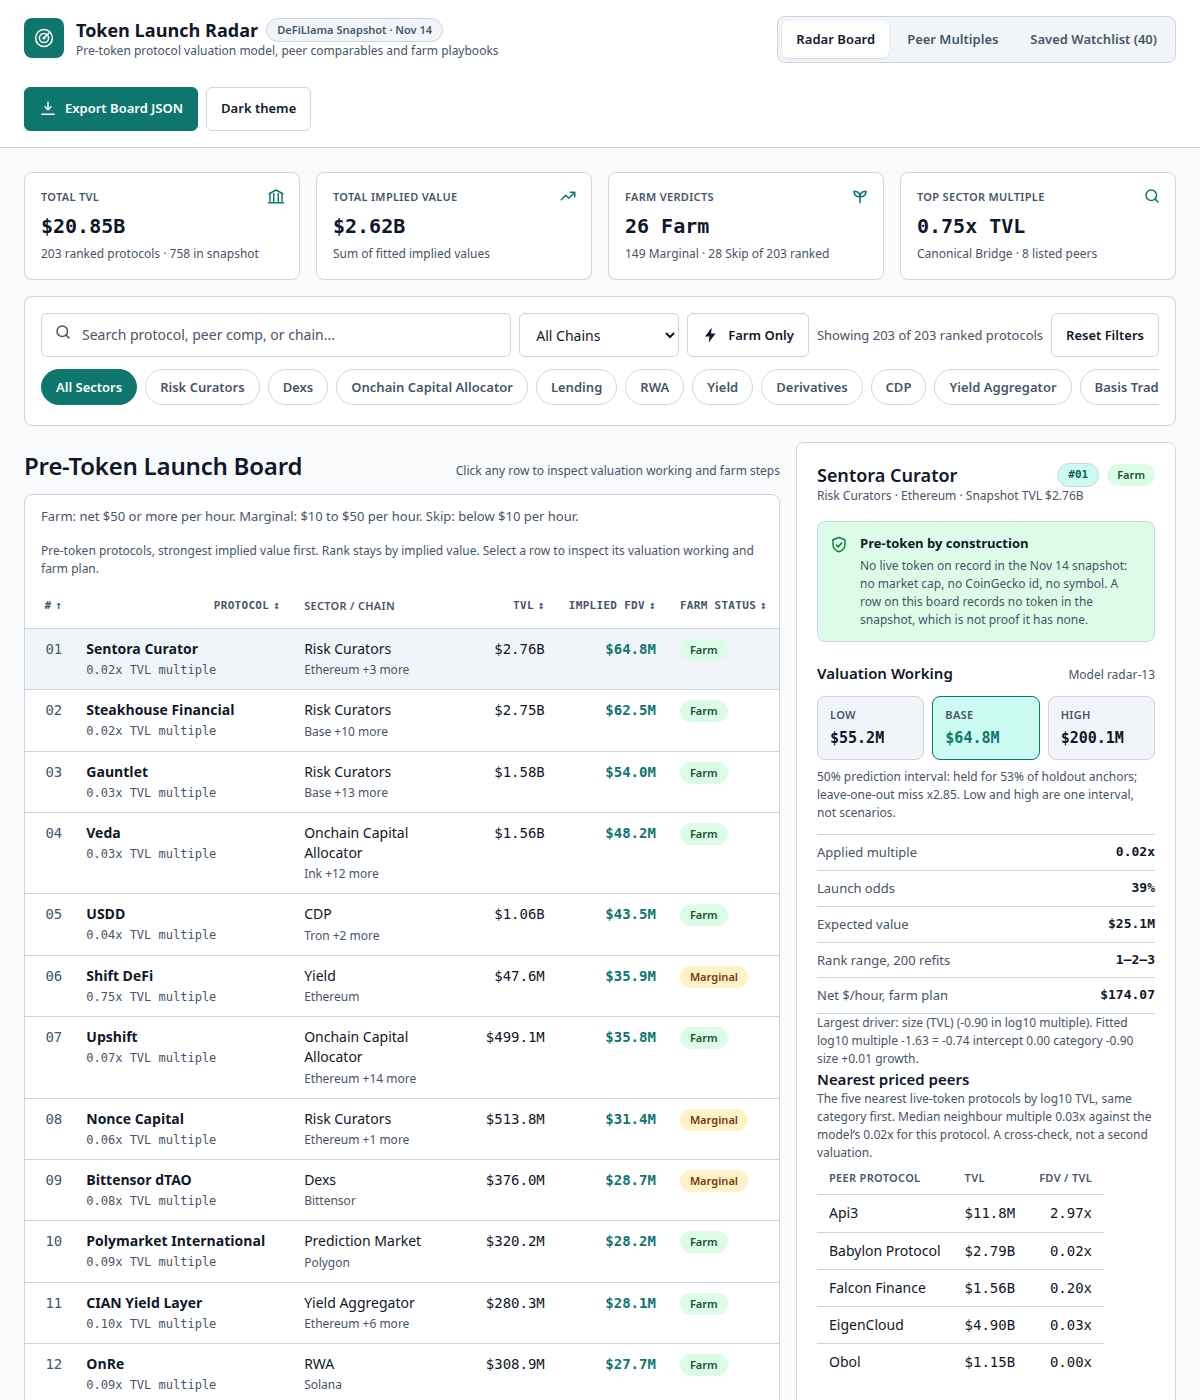
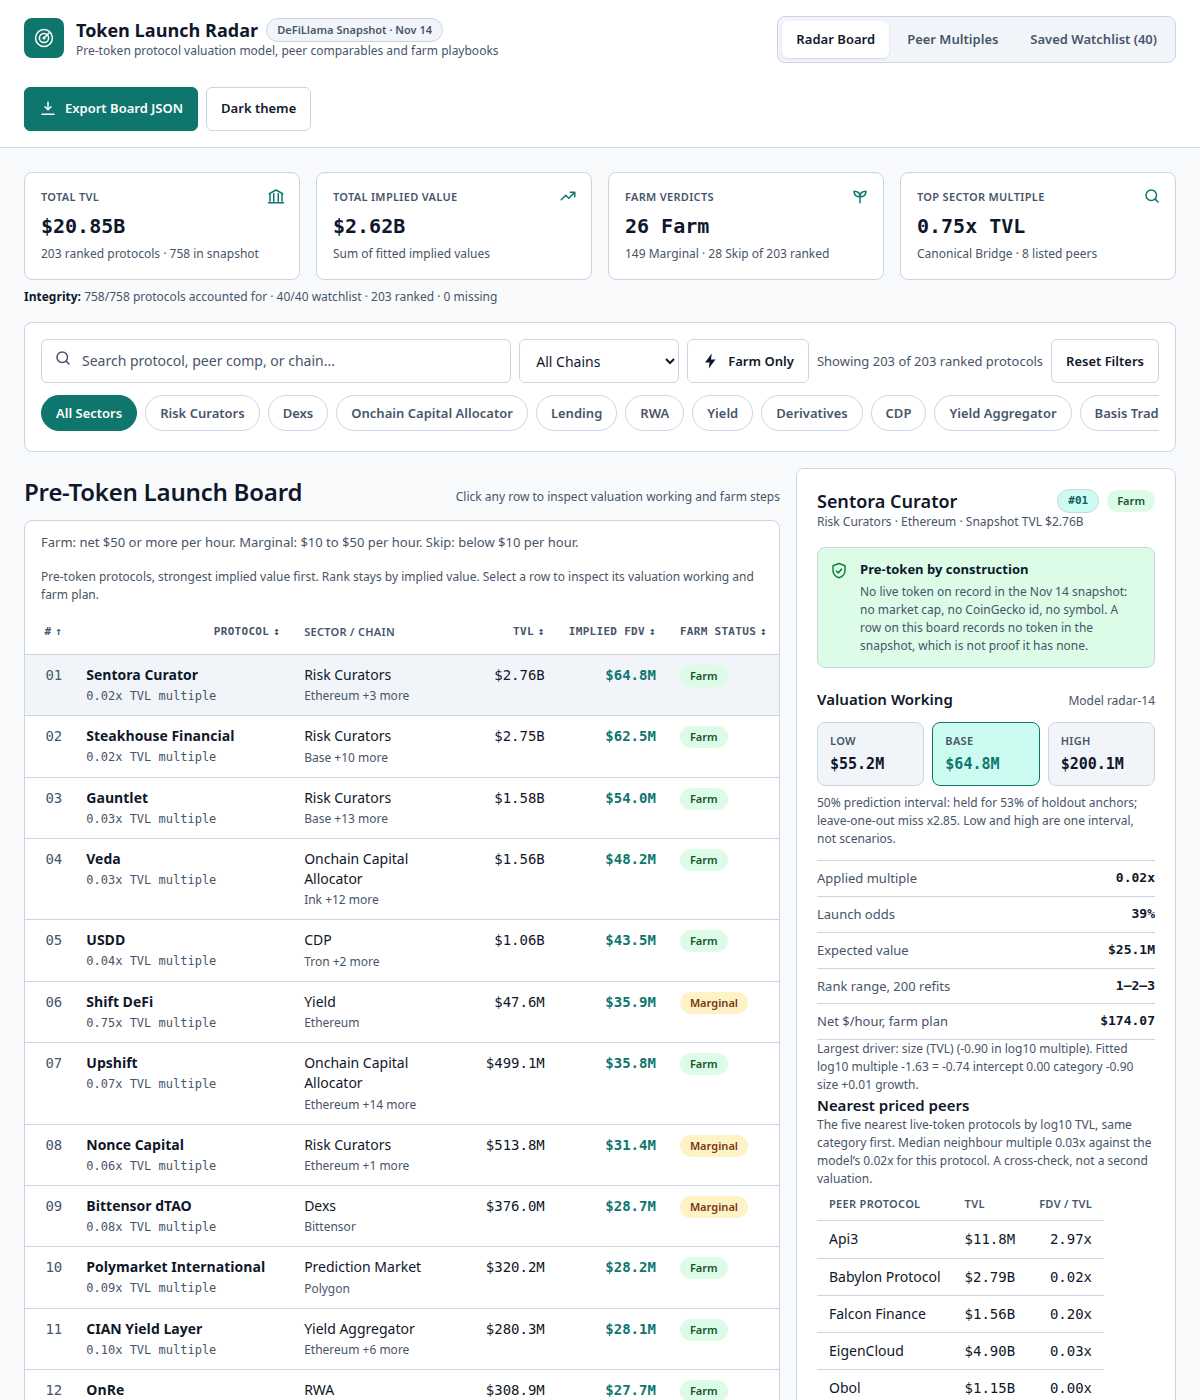
radar-14: maturity term tested and rejected; held-out-twice framing + integrity line (board unchanged)

Changed region(s): [[0.0, 0.1843, 0.9867, 1.0], [0.4008, 0.7986, 0.4625, 1.0], [0.4008, 0.645, 0.4625, 0.7679]]

diff --git a/dashboard/app.js b/dashboard/app.js
@@ -1,4 +1,4 @@
-// Token Radar dashboard (radar-13), from window.RADAR.
+// Token Radar dashboard (radar-14), from window.RADAR.
 // Light theme is the default; dark keeps the same layout. No webfonts:
 // system stacks only, so the board stays offline-capable.
 (function() {
@@ -292,6 +292,14 @@
 			kpi('trend', 'Total implied value', fmtUsd(k.total_implied_usd), 'Sum of fitted implied values'),
 			kpi('sprout', 'Farm verdicts', k.farmable_count + ' Farm', k.marginal_count + ' Marginal · ' + k.skip_count + ' Skip of ' + D.board_size + ' ranked'),
 			kpi('search', 'Top sector multiple', fmtX(topMed.med) + ' TVL', topMed.cat + ' · ' + topMed.n + ' listed peers')
+		);
+	}
+	function integrityLine() {
+		var k = D.kpis;
+		var missing = k.coverage_total - k.coverage_accounted;
+		return el('p', { class: 'integrity-line' },
+			el('b', { text: 'Integrity: ' }),
+			el('span', { text: k.coverage_accounted + '/' + k.coverage_total + ' protocols accounted for · ' + D.watchlist_size + '/' + D.watchlist_size + ' watchlist · ' + D.board_size + ' ranked · ' + missing + ' missing' })
 		);
 	}
 	function toolbar() {
@@ -686,6 +694,7 @@
 			shell.appendChild(watchView());
 		} else {
 			shell.appendChild(kpiStrip());
+			shell.appendChild(integrityLine());
 			shell.appendChild(toolbar());
 			var list = rows();
 			if (filtered()) shell.appendChild(cohort(list));

diff --git a/lib/model.ts b/lib/model.ts
@@ -36,7 +36,12 @@
 // holdout and walk-forward misses together (2.92x/2.57x/2.03x at 1.3).
 // Age is not in the multiple because adding it made the walk-forward
 // miss 12x: the age multiple fitted on older listings does not
-// transfer to newer ones. Age is used where the data supports it
+// transfer to newer ones. A maturity multiplier by age band (median
+// residual per band, shrunk toward 1.0) was tested the same way and
+// rejected too: it worsened the leave-one-out miss (2.85x to 3.17x)
+// and left walk-forward unchanged — the young bands hold only 3 and 7
+// anchors, so their residuals are a few high-multiple protocols, not
+// an age effect. Age is used where the data supports it
 // instead: the share of protocols this old that already have a token,
 // which is the launch odds, and the expected value is the implied
 // value times those odds (see launchShares and expectedValue below).
@@ -110,7 +115,7 @@ export const MODEL: FitConstants = {
   bootstrap_refits: 200,
 };
 
-export const MODEL_VERSION = 'radar-13';
+export const MODEL_VERSION = 'radar-14';
 
 export interface FarmStep {
   text: string;

diff --git a/dashboard/app.css b/dashboard/app.css
@@ -55,7 +55,9 @@ h3{font-size:15px;line-height:22px;font-weight:600;margin:0}
 [data-theme="dark"] .btn.toggle.on{background:#0e7490;border-color:#0e7490}
 .btn .ic{display:inline-flex}
 /* KPI strip */
-.kpis{display:grid;grid-template-columns:repeat(4,1fr);gap:16px;margin:24px 0 16px}
+.kpis{display:grid;grid-template-columns:repeat(4,1fr);gap:16px;margin:24px 0 8px}
+.integrity-line{font-size:12px;line-height:18px;color:var(--muted);margin:0 0 16px}
+.integrity-line b{color:var(--text)}
 .kpi{position:relative;background:var(--panel);border:1px solid var(--line);border-radius:8px;padding:16px}
 .kpi-ic{position:absolute;top:14px;right:14px;color:var(--accent)}
 .kpi-label{display:block;font-size:11px;line-height:16px;font-weight:600;letter-spacing:.3px;text-transform:uppercase;color:var(--muted);margin-bottom:8px;padding-right:28px}

diff --git a/dashboard/method.md b/dashboard/method.md
@@ -1,4 +1,4 @@
-# Token Radar, radar-13: method
+# Token Radar, radar-14: method
 
 ## The model
 
@@ -21,6 +21,11 @@ name is special-cased and no row is hand-picked.
 
 ## Validation (recomputed from the sealed snapshot)
 
+Every value term is tested held-out twice: (1) a seeded 80/20
+holdout, repeated over 10 seeds; (2) a walk-forward holdout, fitted
+on protocols listed before 2025 and tested on those listed in 2025
+or later.
+
 | Check | Result |
 |---|---|
 | Leave-one-out miss | ×2.85 |
@@ -36,7 +41,12 @@ anchors, so it jumps around.
 ## Age: not in the multiple, used for launch odds
 
 Age is deliberately **not** in the fitted multiple: adding it made the
-walk-forward miss ×8.50–×12. It is used for **launch odds**, the share
+walk-forward miss ×8.50–×12. A maturity multiplier by age band
+(median residual per band, shrunk toward 1.0) was tested the same way
+and rejected too: it worsened the leave-one-out miss (×2.85 → ×3.17)
+and left walk-forward unchanged, because the young bands hold only 3
+and 7 anchors and their residuals are a few high-multiple protocols,
+not an age effect. It is used for **launch odds**, the share
 of protocols in each age band that already carry a token, counted from
 the snapshot. The 6–12 month and 1–2 year bands are pooled at their
 joint 38.7% (raw shares dip 39.7% then 38.3%; odds that fall with age
